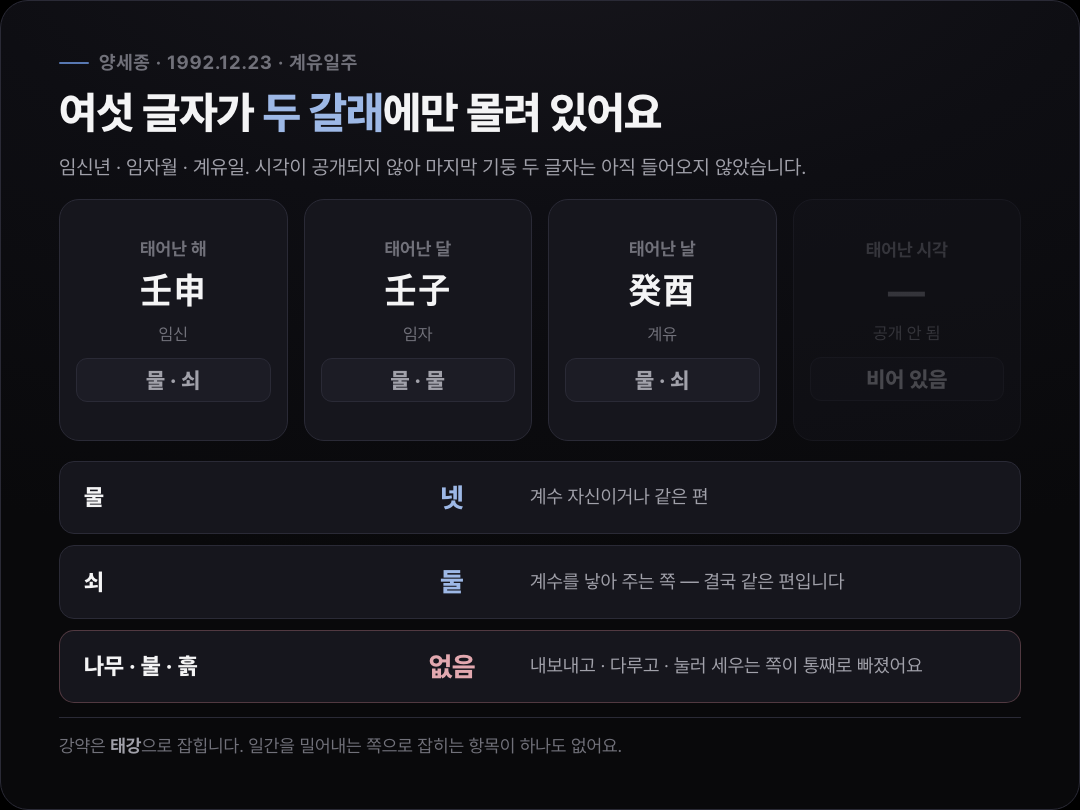
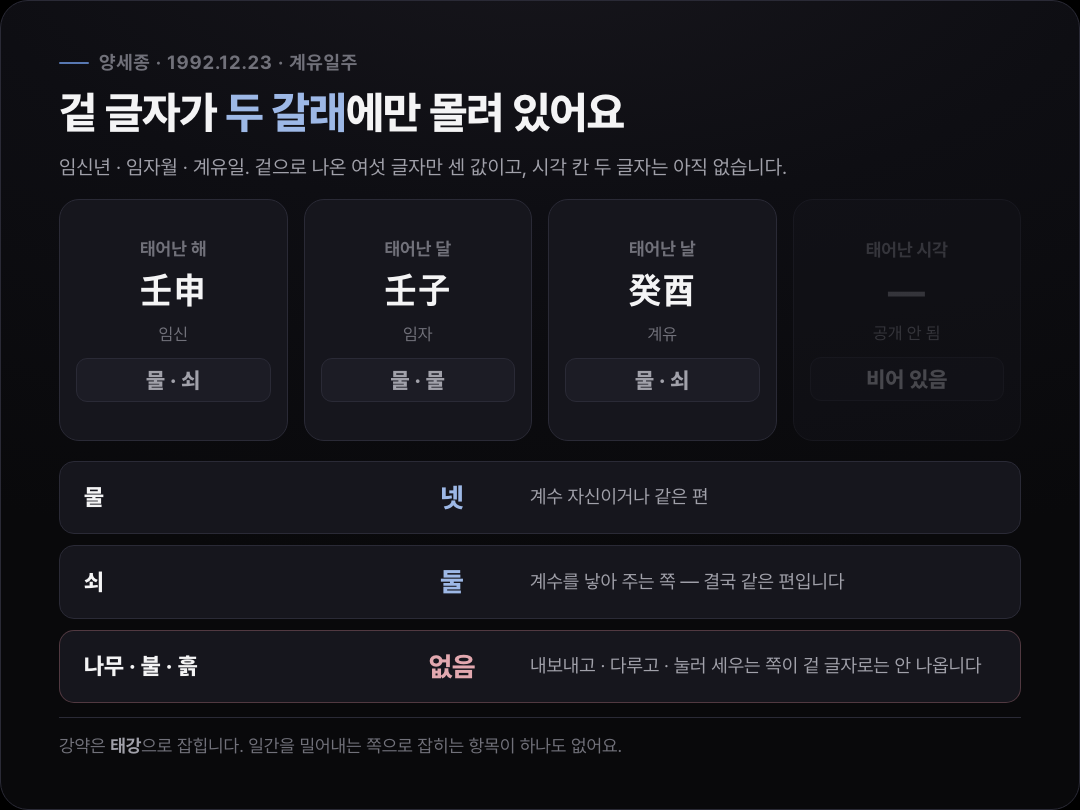
fix(stories): 2차 재검 반영 + 슬롯 클론 검사기 신설
재검 critic 5명 판정: RED 3 · AMBER 2. 1차 수정이 새 문제를 만든 게 확인됐다.

## 왜 같은 사고가 3라운드 연속 났는가 — 도구를 먼저 만들었다

`scripts/slot-clone-check.mts` 신설. `verify-story` 의 M-SIB-01 은 4-gram 비율이라
**고유명사만 갈아 끼운 슬롯 치환형 클론을 구조적으로 못 잡는다.** critic들이 손으로
찾아낸 게 전부 그 형태였고 기계는 전부 통과시켰다 —
  yangsejong↔parkeunbin 38자 · yangsejong↔v-bts 20자 · yuyoungwoo↔v-bts 24자 ·
  yukhae-sal↔jangseong-sal 13자.
193편 전수와의 **최장 연속 일치**를 재고, MIN-그램 역색인으로 6분+ → 1.4초.
필드 관례(source·iljuLabel·heroImage.alt)는 제외해 신호를 깨끗하게 했다.

★이 도구가 즉시 값을 했다. 수정하는 도중에 **같은 패스에서 두 파일에 같은 문구를
쓰는 것을 두 번 잡았다**("삼합 묶음으로 돌려 자리를 정하고", "고르게 놓고 센 값이라").
지금까지 3라운드 연속 못 보고 넘어가던 바로 그 실수다.

결과: 5편 전부 **14자 이상 공유 런 0건**(직전 16·11·10·7·3건).

## [상] 수정

- **장성살 dual-field 를 조건부로 교정.** 1차 critic 권고를 조건 없이 옮겼던 것이
  RED 사유였다. 실측: `saju-enrichment.ts:1333` 이 일반 신살 삼합 산출에서 **년지를
  탐색에서 제외**한다(`filter((_, i) => i !== 0)`). 그래서 장성살 자리 글자가 년지에만
  있으면 신살 쪽엔 안 뜬다 — 12신살 장성살 보유자의 52.8%가 한 번만 보인다.
  게다가 이 글의 인트로 주인공(년주 단독 장성살)이 바로 그 반례였다.
  → 섹션을 "한 번만 뜨는 사람이 절반이 넘어요"로 다시 쓰고 조건을 명시했다.
- **양세종 fig1 카드 한정어 누락.** 본문 caption 은 "표면에서 빠졌다"인데 카드만
  "통째로 빠졌어요"로 무한정이었다. title·intro 도 "반대편이 비어 있어요"라
  1차 [상]의 주장이 SERP 노출층에만 남아 있었다 → 전부 한정.
- **양세종 지장간 과장.** "이미 뿌리 칸 안쪽에 자리를 잡고 있는"이라 썼는데 戊는
  申 지장간 여기(가중치 2/10)이고 `elementDist.토`는 0이다 → "아주 얕게 있다"로.
  근거 없던 "자기 제동" 판독 규칙도 삭제.

## [중] 수정

- **육해살 최대 누락 — 부재율.** 전수 계산상 **0칸이 77%**(시 미상 84%). 장성살 글은
  같은 프레임 오류로 RED 를 받고 척추를 갈았는데 육해살엔 안 옮겼었다. 본문·FAQ·
  excerpt·title 에 반영("넷 중 셋은 아예 없습니다").
[…]

Changed region(s): [[0.0306, 0.0926, 0.7333, 0.216], [0.7333, 0.8025, 0.9167, 0.8333]]

diff --git a/lib/stories/data/yangsejong.ts b/lib/stories/data/yangsejong.ts
@@ -3,11 +3,11 @@ import type { Story } from "../types";
 export const yangSejong: Story = {
   slug: "yangsejong",
   category: "celebrity",
-  title: "양세종 계유일주, 반대편이 비어 있어요",
+  title: "양세종 계유일주, 겉에 안 나온 한 글자",
   excerpt:
     "1992년 12월 23일 계유(癸酉)일주. 여섯 글자 중 넷이 물이고 둘이 쇠인데, 쇠는 물을 낳는 자리예요. 일간을 눌러 세우는 쪽이 표면에 한 자리도 없는 원국입니다.",
   intro:
-    "진중하고 묵직한 배역으로 오래 알려진 배우가 갑자기 웃기는 얼굴을 보여 주면, 사람들은 그걸 변신이라고 부릅니다. 양세종은 2026년 방영된 tvN 《오싹한 연애》에서 검사 역을 맡아 그런 반응을 받았어요.\n\n그런데 원국을 열어 보면 이 사람의 기본값이 무거운 쪽인지부터가 다시 물어볼 만해집니다.\n\n1992년 12월 23일 양력생이고 일주는 **계유(癸酉)**입니다. 위 칸에 [계수](/dict/cheongan/gye), 아래 칸에 [유금](/dict/jiji/yu)이 서요. 시각이 공개된 적이 없어 마지막 기둥 두 글자는 이 글에 못 들어옵니다.\n\n여섯 글자를 늘어놓고 보면 한 가지가 바로 걸려요. **반대편이 통째로 비어 있습니다.**",
+    "진중하고 묵직한 배역으로 오래 알려진 배우가 갑자기 웃기는 얼굴을 보여 주면, 사람들은 그걸 변신이라고 부릅니다. 양세종은 2026년 방영된 tvN 《오싹한 연애》에서 검사 역을 맡아 그런 반응을 받았어요.\n\n그런데 원국을 열어 보면 이 사람의 기본값이 무거운 쪽인지부터가 다시 물어볼 만해집니다.\n\n생일은 1992년 12월 23일 양력이고, 태어난 날의 두 글자가 [계수](/dict/cheongan/gye)와 [유금](/dict/jiji/yu) — 그래서 일주가 **계유(癸酉)**입니다. 태어난 시각 쪽은 기록이 없어 이 글이 다루는 글자는 여섯 개예요.\n\n여섯 글자를 늘어놓으면 한쪽으로 쏠린 게 바로 보여요. 그런데 비어 보이는 쪽을 파 보면 얘기가 달라집니다.",
   sections: [
     {
       heading: "여섯 중 여섯이 같은 편입니다",
@@ -47,7 +47,7 @@ export const yangSejong: Story = {
       blocks: [
         {
           kind: "p",
-          text: "[계유일주](/dict/gabja/gyeyu)를 명리는 **맑은 샘물이 보석 위로 흐르는 형상**으로 옮깁니다. 계수는 이슬·샘물처럼 부드러운 음의 물이고, 유금은 잘 다듬어진 음의 쇠예요.",
+          text: "위 칸 계수는 이슬이나 샘물에 대는 음의 물, 아래 칸 유금은 잘 벼려 놓은 음의 쇠입니다. 사전은 [계유](/dict/gabja/gyeyu)라는 조합을 맑은 샘물이 보석 위로 흐르는 그림에 빗대요.",
         },
         {
           kind: "p",
@@ -60,7 +60,7 @@ export const yangSejong: Story = {
         {
           kind: "callout",
           tone: "tip",
-          text: "한 배역을 오래 파고들어야 하는 일과 어긋나지 않는 구조예요. 다만 원국이 사람을 설명하는 게 아니라, 지나온 이력 옆에 여섯 글자를 나란히 놓아 본 것입니다.",
+          text: "인물 하나를 길게 붙들고 가는 직업과 어긋나지 않는 구조예요. 물론 글자가 사람을 설명하는 게 아니라, 지나온 이력 옆에 여섯 글자를 놓아 본 것뿐입니다.",
         },
       ],
     },
@@ -73,7 +73,7 @@ export const yangSejong: Story = {
         },
         {
           kind: "p",
-          text: "[도화살](/dict/sinsal/dohwa)이 태어난 날 칸에, [홍염살](/dict/sinsal/hongryeom)이 태어난 해 칸에 걸립니다. 둘 다 끌림과 매력을 보는 별인데, 뽑는 기준이 서로 달라요. 도화는 태어난 해의 지지에서 삼합으로 뽑고, 홍염은 일간에서 뽑습니다.",
+          text: "[도화살](/dict/sinsal/dohwa)과 [홍염살](/dict/sinsal/hongryeom) 둘 다 걸려요. 끌림을 보는 별이 두 개인 셈인데, 출발점이 서로 다릅니다. 도화는 띠에서 시작하고 홍염은 일간에서 시작해요. 출발점이 다르니 도착하는 칸도 갈립니다 — 도화가 태어난 날, 홍염이 태어난 해입니다.",
         },
         {
           kind: "p",
@@ -86,7 +86,7 @@ export const yangSejong: Story = {
         },
         {
           kind: "p",
-          text: "남은 한 칸, 태어난 달 쪽은 [장성살](/dict/sipisinsal/jangseongsal)입니다. 통솔과 중심의 별이에요. 일반 신살 기준으로 보면 세 칸이 끌림·끌림·통솔로 갈린 셈입니다.\n\n이 장성살은 두 목록 **양쪽에 같은 이름 그대로** 뜹니다. 뽑는 기준이 둘 다 태어난 해의 지지라 결과가 겹치거든요. 이름까지 같아서 개수로 세기가 제일 쉬운 자리인데, 역시 한 별입니다. 12신살 쪽 태어난 해 칸에는 또 다른 이름인 [지살](/dict/sipisinsal/jisal)이 붙고요.",
+          text: "남은 한 칸, 태어난 달 쪽은 [장성살](/dict/sipisinsal/jangseongsal)입니다. 사전이 권력·통솔력·책임감으로 적는 별이에요. 아래 칸 셋만 놓고 보면 끌림·끌림·통솔로 갈립니다. 위 칸 쪽에 걸리는 별은 따로 있고, 그건 뒤에서 볼게요.\n\n이 장성살은 두 목록 **양쪽에 같은 이름 그대로** 뜹니다. 뽑는 기준이 둘 다 태어난 해의 지지라 결과가 겹치거든요. 이름까지 같아서 개수로 세기가 제일 쉬운 자리인데, 역시 한 별입니다. 12신살 쪽 태어난 해 칸에는 또 다른 이름인 [지살](/dict/sipisinsal/jisal)이 붙고요.",
         },
         {
           kind: "image",
@@ -109,11 +109,11 @@ export const yangSejong: Story = {
         },
         {
           kind: "p",
-          text: "그러니 **없는 게 아니라 안 보이는 자리에 있는** 구조예요. 두루미사주가 이 원국에 보태면 좋을 오행으로 억부 쪽에서 흙을, 겨울생이라 조후 쪽에서 불을 지목하는데, 그중 흙은 이미 뿌리 칸 안쪽에 자리를 잡고 있는 셈입니다.\n\n겉으로는 제동이 없어 보이는데 속에는 있는 배치. 밖에서 눌러 주기를 기다리기보다 스스로 걸어 온 쪽에 가깝고, 한 인물을 오래 붙들고 가는 일에서는 그 자기 제동이 곧 기술이 됩니다.",
+          text: "그러니 **아예 없는 게 아니라 겉에 안 나온** 구조예요. 다만 무토는 신(申) 속에서도 가장 옅게 든 글자라, 오행 개수를 셀 때는 흙 0으로 잡힙니다. 두루미사주가 보태면 좋을 오행으로 억부 쪽에서 흙을, 겨울생이라 조후 쪽에서 불을 지목하는 것도 그래서예요.\n\n속에 있다는 것과 쓰이고 있다는 건 다른 얘기입니다. 이 원국에서 눌러 세우는 자리는 있긴 한데 아주 얕게 있어요.",
         },
         {
           kind: "p",
-          text: "물론 마지막 기둥 두 글자가 아직 빠져 있습니다. 거기에 나무나 불이나 흙이 겉 글자로 들어오면 이 그림은 통째로 다시 그려져요.",
+          text: "덧붙이면 태어난 시각 쪽 두 글자가 아직 안 들어왔어요. 거기서 나무나 불이나 흙이 겉으로 나오면 이 그림은 통째로 다시 그려집니다.",
         },
       ],
     },
@@ -126,7 +126,7 @@ export const yangSejong: Story = {
         },
         {
           kind: "p",
-          text: "그리고 그 자리에 [월덕귀인](/dict/sinsal/woldeok-gwiin)이 잡힙니다. 사전은 이 별을 복록과 안정, 부드러운 인덕의 길성으로 적고, 지지가 아니라 **천간에 나와 있어야 작용이 또렷하다**는 단서를 함께 답니다. 양세종은 그 조건에 해당하는 자리에 들어 있어요.",
+          text: "그리고 그 두 칸에 [월덕귀인](/dict/sinsal/woldeok-gwiin)이 걸립니다. 이 별은 애초에 **천간에서 찾는 별**이에요 — 사전이 지지에서는 성립하지 않는다고 분명히 적어 둡니다. 그리고 천간 중에서도 자리에 따라 세기가 갈린다고 봐요 — 사전이 가장 세다고 꼽는 칸이 태어난 달의 위 칸입니다. 양세종은 년과 달 두 위 칸이 다 임(壬)이라 그 칸을 포함해서 걸려요.",
         },
         {
           kind: "checklist",
@@ -153,15 +153,15 @@ export const yangSejong: Story = {
           items: [
             {
               q: "양세종은 무슨 일주인가요?",
-              a: "계유(癸酉)일주입니다. 1992년 12월 23일 양력생이고 임신년 임자월 계유일로 서요. 시각 쪽 기록이 없어 기둥 하나가 통째로 비어 있어요. 계유는 육십갑자 열 번째 자리이고, 명리는 이 조합을 맑은 샘물이 정련된 보석 위로 흐르는 형상으로 적습니다.",
+              a: "계유(癸酉)일주입니다. 임신년 임자월 계유일 — 1992년 12월 23일 양력생이에요. 태어난 시각은 알려진 게 없어 기둥 하나가 통째로 빕니다. 육십갑자로는 열 번째 코드이고, 맑은 샘물이 벼려 놓은 쇠 위를 흐르는 그림에 빗대는 조합입니다.",
             },
             {
               q: "태강이면 좋은 건가요?",
-              a: "좋고 나쁨을 매기는 등급이 아닙니다. 일간을 돕는 쪽이 아주 두텁게 서 있는 상태를 가리키는 판정이에요. 두터운 만큼 밀고 나가는 힘이 크고, 대신 제동을 걸어 주는 자리가 밖에서 들어오지 않으면 방향을 스스로 잡아야 합니다. 덧붙이면 태어난 시각이 없으면 네 항목 중 하나는 애초에 판정이 걸리지 않아, 이 값도 확정으로 읽지 않으시는 편이 정확해요.",
+              a: "좋고 나쁨을 매기는 등급이 아닙니다. 일간을 돕는 쪽이 아주 두텁게 서 있는 상태를 가리키는 판정이에요. 두터운 만큼 밀고 나가는 힘이 크고, 대신 제동을 걸어 주는 자리가 밖에서 들어오지 않으면 방향을 스스로 잡아야 합니다. 덧붙이면 태어난 시각이 없으면 네 항목 중 하나는 애초에 판정이 걸리지 않아, 이 판정도 확정으로 받지 않으시는 게 맞습니다.",
             },
             {
               q: "도화살과 년살이 둘 다 있다는 건가요?",
-              a: "하나입니다. 사전은 12신살의 년살이 일반 신살의 도화살과 같은 별이라고 적어요. 둘 다 태어난 해의 지지에서 삼합으로 뽑기 때문에 자리도 같습니다. 다만 두루미사주는 산출 기준이 다른 두 체계를 나눠서 보여 주기 때문에 목록 두 곳에 각각 이름이 뜨는 것이고, 이걸 개수로 합산하면 실제보다 부풀려집니다.",
+              a: "하나입니다. 사전은 12신살의 년살과 일반 신살의 도화살을 같은 별로 적어요. 두 목록 모두 띠를 출발점으로 삼으니 도착하는 칸이 같아집니다. 두루미사주가 두 체계를 나눠 보여 주다 보니 목록 두 곳에 각각 뜨는 것뿐이에요. 두 줄을 더해서 세면 실제보다 많아 보입니다.",
             },
             {
               q: "나무·불·흙이 없으면 그 기운이 없는 사람인가요?",

diff --git a/lib/stories/data/yuyoungwoo.ts b/lib/stories/data/yuyoungwoo.ts
@@ -3,11 +3,11 @@ import type { Story } from "../types";
 export const yuYoungwoo: Story = {
   slug: "yuyoungwoo",
   category: "celebrity",
-  title: "유영우 기묘일주, 가장 센 칸에 험한 이름이",
+  title: "유영우 기묘일주, 통솔의 별과 빠진 쇠",
   excerpt:
-    "1995년 6월 17일 기묘(己卯)일주. 태어난 달 칸은 이 원국에서 힘이 가장 강한 자리인데, 거기 붙은 12신살 이름은 육해살이에요. 이름과 세기가 따로 노는 칸이 어떻게 읽히는지 짚어 봅니다.",
+    "1995년 6월 17일 기묘(己卯)일주. 본인 자리에 판을 지휘하는 별이 앉아 있는데, 정작 만들어 낸 것을 거두어 굳히는 오행은 겉에 한 자리도 없어요. 그 둘을 같이 놓고 읽어 봅니다.",
   intro:
-    "만담은 혼자 웃기는 일이 아닙니다. 둘이 주고받는 박자를 미리 다 짜 놓고, 무대 위에서는 그 판을 놓치지 않게 끌고 가야 하는 일이에요. 유영우는 메타코미디 소속 개그맨이고, 만담 콤비 유스데스크로 무대와 온라인 양쪽에서 활동하고 있습니다.\n\n판을 짜고 그 판을 지휘하는 일. 원국으로 옮겨 보면 이 대목이 꽤 또렷하게 나옵니다.\n\n1995년 6월 17일 양력생이고 일주가 **기묘(己卯)**예요. 위 칸에 [기토](/dict/cheongan/gi), 아래 칸에 [묘목](/dict/jiji/myo)이 섭니다. 시각이 공개된 적이 없어 마지막 기둥은 비어 있고, 이 글도 거기까지는 못 갑니다.\n\n짚어 볼 자리는 **태어난 달 칸**입니다. 이 원국에서 힘이 가장 강하게 잡히는 칸인데, 거기 붙은 12신살 이름이 하필 육해살이거든요.",
+    "만담은 혼자 웃기는 일이 아닙니다. 둘이 주고받는 박자를 미리 다 짜 놓고, 무대 위에서는 그 판을 놓치지 않게 끌고 가야 하는 일이에요. 유영우는 메타코미디 소속 개그맨이고, 만담 콤비 유스데스크로 무대와 온라인 양쪽에서 활동하고 있습니다.\n\n판을 짜고 그 판을 지휘하는 일. 원국으로 옮겨 보면 이 대목이 꽤 또렷하게 나옵니다.\n\n1995년 6월 17일 양력생이고 일주가 **기묘(己卯)**예요. 위 칸에 [기토](/dict/cheongan/gi), 아래 칸에 [묘목](/dict/jiji/myo)이 섭니다. 태어난 시각은 알려진 적이 없어요. 그래서 이 글이 다루는 기둥은 셋입니다.\n\n짚어 볼 자리는 **태어난 달 칸**입니다. 이 원국에서 힘이 가장 강하게 잡히는 칸인데, 거기 붙은 12신살 이름이 하필 육해살이거든요.",
   sections: [
     {
       heading: "본인 자리에 통솔의 별이 앉아 있어요",
@@ -27,7 +27,7 @@ export const yuYoungwoo: Story = {
         {
           kind: "callout",
           tone: "tip",
-          text: "덧붙이면 이 자리는 산출 방식이 다른 두 목록에서 **동시에** 잡힙니다. 12신살 쪽에서도 장성살, 산출 기준이 각자 다른 일반 신살 쪽에서도 장성살이에요. 일반 신살은 별마다 잣대가 다른데 장성살은 그쪽에서도 태어난 해의 지지에서 출발해서, 결국 두 목록이 같은 칸을 가리킵니다. 별이 두 개인 게 아니라 같은 별이 두 번 호명된 것입니다.",
+          text: "덧붙이면 결과 화면에서 이 칸에 장성살이 두 번 보일 수 있어요. 두루미사주가 신살을 두 목록으로 나눠 주는데, 이 자리가 양쪽 조건에 다 걸리기 때문입니다. 한 별이 두 줄에 적혀 있을 뿐이에요.",
         },
         {
           kind: "image",
@@ -38,7 +38,7 @@ export const yuYoungwoo: Story = {
       ],
     },
     {
-      heading: "기묘 — 텃밭 위에 새벽 토끼풀이 자란 자리",
+      heading: "기토와 묘목 — 흙 위를 파고드는 나무",
       blocks: [
         {
           kind: "p",
@@ -54,16 +54,16 @@ export const yuYoungwoo: Story = {
         },
         {
           kind: "p",
-          text: "아래 칸 속에 든 글자가 을목 하나뿐이라는 점도 이 일주의 특징이에요. 지지는 보통 두세 글자가 겹쳐 드는데 여기는 단일입니다. 사전은 그래서 이 자리의 신호가 아주 또렷하다고 적고, 힘이 한 갈래로 모일 때와 흩어질 때의 차이가 크다는 단서를 답니다.",
+          text: "사전은 이 일주의 아래 칸 속이 을목 하나로만 채워져 있다고 적어요. 그래서 이 자리가 내는 신호가 아주 또렷하다고 보고, 힘이 한 갈래로 모일 때와 흩어질 때의 차이가 크다는 단서를 답니다.",
         },
       ],
     },
     {
-      heading: "가장 센 칸에 가장 험한 이름이 붙어 있습니다",
+      heading: "달 칸은 잣대에 따라 답이 갈려요",
       blocks: [
         {
           kind: "p",
-          text: "여기가 이 원국에서 제일 재미있는 대목이에요.",
+          text: "옆 칸으로 눈을 옮겨 보겠습니다.",
         },
         {
           kind: "p",
@@ -109,15 +109,15 @@ export const yuYoungwoo: Story = {
         },
         {
           kind: "p",
-          text: "여섯 글자를 다섯 갈래로 갈라 보면 나무 둘, 물 둘, 불 하나, 흙 하나입니다. 그리고 **쇠가 한 자리도 나오지 않아요.**",
+          text: "여섯 글자의 오행을 세면 나무 둘, 물 둘, 불 하나, 흙 하나예요. 다섯 갈래 중 넷만 채워졌고 **쇠 자리가 통째로 비었습니다.**",
         },
         {
           kind: "p",
-          text: "기토에게 나무는 자기를 눌러 오는 쪽이고 물은 자기가 다뤄야 할 쪽이에요. 그 둘이 넷을 차지합니다. 반대로 같은 편은 불 하나와 흙 하나뿐인데, 그 흙 하나가 바로 일간 자신이에요. 밀어내는 손이 훨씬 많은 구성입니다.",
+          text: "기토에게 나무는 눌러 오는 쪽, 물은 다뤄야 할 쪽입니다. 여섯 중 넷이 그쪽이에요. 남은 둘 중 하나는 기토를 낳아 주는 불이고, 나머지 하나는 기토 자신입니다. 그러니 헤딩의 둘 가운데 하나는 본인이 스스로 세는 몫이에요.",
         },
         {
           kind: "p",
-          text: "빠져 있는 쇠는 기토가 밖으로 내보내는 자리예요. 흙이 길러 낸 것을 거두어 형태로 굳히는 쪽이 겉에 나와 있지 않다는 얘기입니다. 물론 마지막 기둥 두 글자가 아직이라 이 개수도 확정은 아니고요.",
+          text: "빠져 있는 쇠는 기토가 밖으로 내보내는 자리예요. 흙이 길러 낸 것을 거두어 형태로 굳히는 쪽이 겉에 나와 있지 않다는 얘기입니다. 시각 칸이 채워지면 이 개수는 물론 달라질 수 있어요.",
         },
         {
           kind: "callout",
@@ -170,14 +170,14 @@ export const yuYoungwoo: Story = {
             },
             {
               q: "육해살이 있으면 안 좋은 사주인가요?",
-              a: "그런 뜻이 아닙니다. 12신살은 태어난 해의 지지를 기준으로 네 칸에 이름을 하나씩 배정하는 체계예요. 그러니 어느 칸에든 이름은 붙습니다 — 그 이름이 육해살로 나오는 사람도 있고 아예 안 나오는 사람도 있어요. 유영우의 경우 그 이름이 붙은 칸이 오히려 12운성으로는 힘이 강한 자리이고 강약 판정에서 확보된 유일한 자리이기도 합니다. 이름과 세기를 같은 잣대로 보면 방향이 어긋나요.",
+              a: "그런 뜻이 아닙니다. 12신살은 띠를 기준점으로 삼아 네 칸에 이름을 하나씩 나눠 주는 체계예요. 그러니 어느 칸에든 이름은 붙습니다 — 그 이름이 육해살로 나오는 사람도 있고 아예 안 나오는 사람도 있어요. 유영우의 경우 그 이름이 붙은 칸이 오히려 12운성으로는 힘이 강한 자리이고 강약 판정에서 확보된 유일한 자리이기도 합니다. 이름과 세기를 같은 잣대로 보면 방향이 어긋나요.",
             },
             {
               q: "천덕귀인이 태어난 해 칸에 붙었다는 게 무슨 뜻인가요?",
               a: "이 별은 태어난 달의 지지를 기준점으로 삼아 자리를 정합니다. 유영우는 오(午)월생이고, 오월에 성립하는 천덕 자리가 해(亥)예요. 그런데 태어난 해의 아래 글자가 마침 해(亥)라서 그 칸이 천덕 자리가 됩니다. 이름은 귀인인데 붙는 자리가 천간이 아니라 지지인 경우예요. 같은 덕(德) 자를 쓰는 월덕귀인은 천간에 나와야 작용이 또렷하다고 사전이 따로 단서를 답니다."
             },
             {
-              q: "쇠가 하나도 없으면 그 기운이 아예 없는 건가요?",
+              q: "쇠가 겉에 없다는 게 어떤 뜻인가요?",
               a: "겉으로 나온 여섯 글자 안에 없다는 얘기예요. 더구나 마지막 기둥 두 글자가 아직 안 들어온 상태입니다. 시각이 나오면 오행 개수도 12신살 이름 목록도 새로 계산돼요. 여기 적은 개수는 시각 칸을 뺀 채로 센 값입니다.",
             },
           ],

diff --git a/lib/stories/data/jangseong-sal.ts b/lib/stories/data/jangseong-sal.ts
@@ -18,7 +18,7 @@ export const jangseongSal: Story = {
         },
         {
           kind: "p",
-          text: "[12신살](/dict/sipisinsal/intro)은 순서가 반대입니다. 사전은 이 체계를 두고 **어느 사주든 열두 지지 전체에 별이 부여되는 한 묶음**이라고 적어요. 태어난 해의 지지가 어느 [삼합](/dict/relation/inosul-samhap) 묶음에 드는지만 정해지면, 열두 글자 전부에 이름이 하나씩 배정됩니다. 장성살이 어느 글자에 붙을지도 그때 이미 확정돼요.",
+          text: "[12신살](/dict/sipisinsal/intro)은 순서가 반대입니다. 사전은 이 체계를 두고 **어느 사주든 열두 지지 전체에 별이 부여되는 한 묶음**이라고 적어요. 내 띠가 어느 [삼합](/dict/relation/inosul-samhap) 묶음에 드는지만 정해지면, 열두 글자 전부에 이름이 하나씩 배정됩니다. 장성살이 어느 글자에 붙을지도 그때 이미 확정돼요.",
         },
         {
           kind: "callout",
@@ -135,20 +135,20 @@ export const jangseongSal: Story = {
       ],
     },
     {
-      heading: "결과 화면에 같은 이름이 두 번 뜰 수 있어요",
+      heading: "결과 화면에 한 번만 뜨는 사람이 절반이 넘어요",
       blocks: [
         {
           kind: "p",
-          text: "짚어 둘 게 하나 있습니다. 두루미사주는 신살을 두 목록으로 나눠서 보여 줘요. 태어난 해의 지지로 뽑는 12신살이 한 쪽, 산출 기준이 각자 다른 일반 신살이 다른 쪽입니다.",
+          text: "짚어 둘 게 하나 더 있어요. 두루미사주는 신살을 두 목록으로 나눠 보여 줍니다. 띠로 뽑는 12신살이 한 쪽, 별마다 잣대가 다른 일반 신살이 다른 쪽이에요.",
         },
         {
           kind: "p",
-          text: "그런데 장성살은 **두 목록 양쪽에 같은 이름 그대로** 올라옵니다. 일반 신살 쪽 장성살도 태어난 해의 지지에서 삼합으로 뽑기 때문에, 결과가 같은 칸을 가리키거든요.",
+          text: "장성살은 두 목록 양쪽에 다 있는 이름이에요. 그래서 조건이 맞으면 결과 화면에서 두 번 보입니다.\n\n**그런데 그 조건이 좀 까다롭습니다.** 일반 신살 쪽 계산은 태어난 해 칸을 탐색에서 빼거든요. 그래서 장성살 자리 글자가 **달·날·시각 중 어딘가에 있어야** 그쪽에도 이름이 올라옵니다.",
         },
         {
           kind: "callout",
           tone: "warn",
-          text: "이름이 두 번 보인다고 별이 둘인 건 아닙니다. 같은 별이 두 번 호명된 거예요. 개수로 합산하면 실제보다 부풀려집니다.",
+          text: "그래서 앞에 나온 말띠 사례처럼 **태어난 해 칸 하나만 장성살인 사람은 한 번만 보입니다.** 원국표 안에는 뜨는데 신살 쪽에는 안 보여요. 빠뜨린 게 아니라 계산이 그렇게 짜여 있는 겁니다.\n\n반대로 두 번 보이는 사람도 개수는 하나예요. 두 줄을 더해서 세면 많아 보입니다.",
         },
       ],
     },
@@ -161,11 +161,11 @@ export const jangseongSal: Story = {
         },
         {
           kind: "p",
-          text: "여기서 범위를 정확히 잡아 둘 필요가 있어요. **길한 쪽이라는 분류는 12신살 체계 안에서의 자리매김**입니다. 산출 기준이 각자 다른 일반 신살 쪽에서 귀인으로 묶는 별들과는 애초에 다른 목록이에요. 같은 '길하다'는 말을 써도 두 체계가 재는 잣대가 같지 않습니다.",
+          text: "여기서 범위를 정확히 잡아 둘 필요가 있어요. **길한 쪽이라는 분류는 12신살 체계 안에서의 자리매김**입니다. 별마다 잣대가 다른 일반 신살 쪽에서 귀인으로 묶는 별들과는 애초에 다른 목록이에요. 같은 '길하다'는 말을 써도 두 체계가 재는 잣대가 같지 않습니다.",
         },
         {
           kind: "p",
-          text: "그리고 사전 자신도 무조건으로 적지는 않아요. 장성살이 너무 강하면 독선으로 흐를 수 있으니 협업과 경청의 균형이 필요하다고 단서를 답니다. 세다는 것과 좋다는 것이 같은 말이 아니라는 뜻이에요.",
+          text: "그리고 사전 자신도 무조건으로 적지는 않아요. 이 별이 지나치게 세지면 혼자 밀어붙이는 쪽으로 기울 수 있다고 보고, 그래서 함께 하고 귀 기울이는 균형을 단서로 답니다. 세다는 것과 좋다는 것이 같은 말이 아니라는 뜻이에요.",
         },
         {
           kind: "callout",
@@ -207,19 +207,19 @@ export const jangseongSal: Story = {
           items: [
             {
               q: "장성살이 있는지 없는지 어떻게 아나요?",
-              a: "먼저 자리를 찾고, 그 글자가 왔는지를 봅니다. 12신살은 태어난 해의 지지가 속한 삼합 묶음에 따라 열두 지지 전체에 이름을 배정하는데, 사주에 실제로 드러나는 건 그중 네 칸이에요. 장성살 자리 글자가 그 넷 안에 없으면 장성살은 없는 겁니다. 다만 태어난 해의 지지가 자·오·묘·유인 쥐·토끼·말·닭띠는 년지 자체가 그 자리라 자동으로 하나를 갖습니다.",
+              a: "먼저 자리를 찾고, 그 글자가 왔는지를 봅니다. 12신살은 띠가 속한 삼합 묶음에 따라 열두 지지 전체에 이름을 배정하는데, 사주에 실제로 드러나는 건 그중 네 칸이에요. 장성살 자리 글자가 그 넷 안에 없으면 장성살은 없는 겁니다. 다만 태어난 해의 지지가 자·오·묘·유인 쥐·토끼·말·닭띠는 년지 자체가 그 자리라 자동으로 하나를 갖습니다.",
             },
             {
               q: "장성살이 있으면 리더가 되나요?",
-              a: "사전은 리더십의 자질을 강하게 부여하는 별로 적지만, 사주 전체의 균형과 본인의 노력이 함께 따라야 실제로 발현된다고 단서를 답니다. 게다가 태어난 해 칸의 장성살은 띠로 정해지는 자리라 셋 중 한 명꼴이에요. 그 칸 하나만 놓고 직업이나 지위를 읽으면 근거가 너무 얇아요.",
+              a: "사전은 리더의 자질을 크게 실어 주는 별로 적습니다. 다만 원국 전체의 균형과 본인 노력이 받쳐 줘야 그 자질이 밖으로 나온다는 단서를 함께 달아요. 게다가 태어난 해 칸의 장성살은 띠로 정해지는 자리라 셋 중 한 명꼴이에요. 그 칸 하나만 놓고 직업이나 지위를 읽으면 근거가 너무 얇아요.",
             },
             {
               q: "'살'이 붙었는데 왜 길한 쪽인가요?",
-              a: "신살의 '살'은 흉을 뜻하기도 하지만 강한 기운이라는 뜻도 함께 가진다고 사전은 적습니다. 다만 길한 쪽이라는 분류는 12신살 체계 안에서의 자리매김이에요. 산출 기준이 각자 다른 일반 신살 목록에서 귀인으로 묶는 별들과는 애초에 다른 갈래라, 같은 표현을 써도 재는 잣대가 같지 않습니다.",
+              a: "신살의 '살'은 흉을 뜻하기도 하지만 강한 기운이라는 뜻도 함께 가진다고 사전은 적습니다. 다만 길한 쪽이라는 분류는 12신살 체계 안에서의 자리매김이에요. 잣대가 제각각인 일반 신살 목록에서 귀인으로 묶는 별들과는 애초에 다른 갈래라, 같은 표현을 써도 재는 기준이 같지 않습니다.",
             },
             {
-              q: "결과 화면에 장성살이 두 번 뜨는데 두 개인가요?",
-              a: "하나입니다. 두루미사주는 산출 기준이 다른 두 목록을 나눠서 보여 주는데, 장성살은 12신살 쪽에서도 일반 신살 쪽에서도 태어난 해의 지지에서 뽑기 때문에 같은 칸이 양쪽에 걸려요. 별이 늘어난 게 아니라 같은 별이 두 번 호명된 것이라, 개수로 합산하면 부풀려집니다.",
+              q: "결과 화면에 장성살이 한 번만 뜨는데 맞나요?",
+              a: "맞을 수 있습니다. 두루미사주는 신살을 두 목록으로 나눠 보여 주는데, 일반 신살 쪽 계산은 태어난 해 칸을 탐색에서 뺍니다. 그래서 장성살 자리 글자가 태어난 해 칸에만 있으면 원국표 안에는 표시되고 신살 쪽에는 안 올라와요. 반대로 달·날·시각 중 어딘가에 있으면 양쪽에 다 뜨는데, 그때도 별은 하나입니다.",
             },
             {
               q: "자·오·묘·유 네 글자에는 장성살만 붙나요?",

diff --git a/lib/stories/data/v-bts.ts b/lib/stories/data/v-bts.ts
@@ -5,7 +5,7 @@ export const vBts: Story = {
   category: "celebrity",
   title: "뷔 을미일주, 한 칸에 이름이 셋 앉으면",
   excerpt:
-    "1995년 12월 30일 을미(乙未)일주. 태어난 달 칸 하나에 매력의 별과 귀인의 별이 함께 앉고, 태어난 날 칸에는 재능의 별과 험한 이름이 겹칩니다. 겹친 칸을 어떻게 읽는지가 이 원국의 관건이에요.",
+    "1995년 12월 30일 을미(乙未)일주. 태어난 달 칸 하나에 매력의 별과 귀인의 별이 함께 앉고, 태어난 날 칸에는 안으로 깊어지는 별과 험한 이름이 겹칩니다. 겹친 칸을 어떻게 읽는지가 이 원국의 관건이에요.",
   intro:
     "사주를 보다 보면 유난히 표시가 몰리는 칸이 나옵니다. 그 칸이 좋은 칸인지 나쁜 칸인지 묻고 싶어지는데, 실제로는 그 질문에 답이 잘 안 나와요.\n\n방탄소년단의 뷔가 딱 그런 원국입니다. 1995년 12월 30일 양력생이고 일주는 **을미(乙未)**예요. 위 칸에 [을목](/dict/cheongan/eul), 아래 칸에 [미토](/dict/jiji/mi)가 섭니다. 시각 쪽은 공개된 적이 없어서, 마지막 기둥은 비워 놓고 읽습니다.\n\n여기서 먼저 갈라 둘 게 있어요. 12신살은 **어느 칸에든 이름을 하나씩 줍니다.** 사전이 이 체계를 두고 어느 사주든 열두 지지 모두에 별이 부여된다고 적는 대로예요. 그러니 몰린다는 건 12신살 쪽 얘기가 아니라, 별마다 조건이 다른 **일반 신살 쪽에서 생기는 일**입니다.\n\n뷔의 원국에서는 그 몰림이 두 칸에 걸려요. 태어난 달 칸과 태어난 날 칸입니다. 한 칸에 이름이 여럿 앉으면 그 칸을 좋다 나쁘다로 접기가 어려워지고, 어느 이름이 어느 기준에서 나온 건지부터 갈라야 합니다.",
   sections: [
@@ -29,12 +29,12 @@ export const vBts: Story = {
         },
         {
           kind: "p",
-          text: "매력을 보는 별과 도움을 받는 별이 한 칸에 겹쳤어요. 두 별의 뽑는 기준은 서로 다릅니다. 도화는 태어난 해의 지지에서 삼합으로 뽑고, [천을귀인](/dict/sinsal/cheonyl-gwiin)은 일간에서 뽑아요. 기준이 다른 두 계산이 우연히 같은 칸을 가리킨 겁니다.",
+          text: "매력을 보는 별과 도움을 받는 별이 한 칸에 겹쳤어요. [천을귀인](/dict/sinsal/cheonyl-gwiin)은 조견표부터 다릅니다. 열 개 일간마다 정해진 지지가 따로 있고, 을목이면 자(子)와 신(申) 두 글자예요. 띠는 아예 안 봅니다. 그러니 두 별이 같은 칸에 앉은 건 서로 맞춘 게 아니라 우연이에요.",
         },
         {
           kind: "callout",
           tone: "warn",
-          text: "이런 칸을 두고 별이 셋이라고 세면 실제보다 부풀려집니다. 결과 화면에서 목록이 나뉘어 보이는 건 산출 기준을 갈라 놓았기 때문이지 별이 늘어난 게 아니에요.",
+          text: "표의 세 줄 중 12신살 한 줄은 어느 칸에나 있는 상수예요. 그러니 이 칸을 특별하게 만든 건 나머지 두 줄, 조건이 맞아야 붙는 쪽입니다. 셋으로 세면 실제보다 부풀려져요.",
         },
         {
           kind: "image",
@@ -67,7 +67,7 @@ export const vBts: Story = {
       ],
     },
     {
-      heading: "날 칸에서는 재능의 별과 험한 이름이 겹칩니다",
+      heading: "날 칸에서는 안으로 깊어지는 별과 험한 이름이 겹칩니다",
       blocks: [
         {
           kind: "p",
@@ -75,7 +75,7 @@ export const vBts: Story = {
         },
         {
           kind: "p",
-          text: "이 칸은 [화개살](/dict/sinsal/hwagae)로 잡힙니다. 그리고 12신살 쪽 목록에서도 같은 이름이 나와요. 두 목록 다 태어난 해의 지지에서 삼합으로 뽑는 별이라 자리가 겹칩니다. 방금 달 칸에서 본 도화와 같은 구조예요.",
+          text: "이 칸은 [화개살](/dict/sinsal/hwagae)로 잡힙니다. 그런데 12신살 목록을 봐도 같은 이름이 또 있어요. 화개는 어느 목록에서든 띠를 출발점으로 삼는 별이라 두 계산이 같은 답에 도착하거든요. 달 칸의 도화가 그랬던 것과 같은 사정입니다.",
         },
         {
           kind: "p",
@@ -83,7 +83,7 @@ export const vBts: Story = {
         },
         {
           kind: "p",
-          text: "그러니 이 원국은 **본인 자리에 재능의 별이, 태어난 달 칸에 매력과 도움의 별이** 앉은 배치입니다. 그리고 그 본인 자리는 백호살이 성립하는 자리이기도 하고요.",
+          text: "12신살 쪽으로 세 칸을 한 줄로 놓으면 [지살](/dict/sipisinsal/jisal)·년살·화개살이 됩니다. 태어난 해 칸에도 이름은 어김없이 붙어 있어요 — 다만 그 칸엔 다른 목록의 별이 겹치지 않아 조용할 뿐입니다.\n\n겹침이 생긴 두 칸을 정리하면 이렇습니다. 태어난 달 칸에 매력과 도움의 별이, 본인 자리에 안으로 깊어지는 별과 백호가 함께 앉았어요.",
         },
         {
           kind: "image",
@@ -102,7 +102,7 @@ export const vBts: Story = {
         },
         {
           kind: "p",
-          text: "을목 입장에서 불은 자기가 밖으로 내보내는 자리이고, 쇠는 자기를 눌러 세우는 자리입니다. 표현하는 쪽과 규범 쪽 둘 다 겉으로는 안 드러난다는 뜻이에요.",
+          text: "을목에게 불은 제 안의 것을 꺼내 쓰는 통로이고, 쇠는 그 을목을 잘라 다듬는 쪽입니다. 꺼내는 힘과 다듬는 힘 둘 다 겉 글자로는 안 보인다는 뜻이에요.",
         },
         {
           kind: "p",
@@ -110,7 +110,7 @@ export const vBts: Story = {
         },
         {
           kind: "p",
-          text: "강약은 [중화신강](/dict/gangyak/junghwa-singang)으로 잡혀요. 시각이 비어 판정이 도는 항목은 셋인데, 그중 태어난 달과 태어난 날 두 곳을 확보한 상태입니다. 한쪽으로 크게 기울지 않은, 가운데에 가까운 자리예요.",
+          text: "강약은 [중화신강](/dict/gangyak/junghwa-singang)입니다. 강약은 네 항목으로 재는데 시각이 없으면 그중 하나는 계산이 아예 안 돌아요. 남은 셋 가운데 달과 날 두 곳을 확보한 상태입니다. 한쪽으로 크게 기울지 않은, 가운데에 가까운 자리예요.",
         },
       ],
     },
@@ -147,7 +147,7 @@ export const vBts: Story = {
           items: [
             {
               q: "뷔는 무슨 일주인가요?",
-              a: "을미(乙未)일주입니다. 1995년 12월 30일 양력생이고 을해년 무자월 을미일로 서요. 시각 쪽 기록이 없어 마지막 기둥 자리가 비어 있어요. 을미는 육십갑자 서른두 번째 자리이고, 명리는 이 조합을 들판에서 풀을 뜯는 양의 형상으로 적습니다. 백호살이 성립하는 일곱 일주 중 하나이기도 해요.",
+              a: "을미(乙未)일주입니다. 태어난 날의 두 글자가 을목과 미토라서요. 을해년 무자월 을미일로 서고, 시각은 공개된 적이 없어 기둥 하나가 빕니다. 육십갑자 서른두 번째 코드이고, 들판에서 풀을 뜯는 양에 빗대는 조합이에요. 백호가 걸리는 일곱 조합에도 들어갑니다.",
             },
             {
               q: "천을귀인이 있으면 뭐가 좋은가요?",

diff --git a/lib/stories/data/yukhae-sal.ts b/lib/stories/data/yukhae-sal.ts
@@ -3,9 +3,9 @@ import type { Story } from "../types";
 export const yukhaeSal: Story = {
   slug: "yukhae-sal",
   category: "saju",
-  title: "육해살은 다른 띠에게는 장성살입니다",
+  title: "육해살, 넷 중 셋은 아예 없습니다",
   excerpt:
-    "여섯 가지 해로움이라는 이름 때문에 놀라시는 분이 많아요. 그런데 내 사주에서 육해살로 잡힌 그 글자는, 다른 한 묶음의 띠에게는 장성살 자리예요. 글자에 길흉이 박혀 있는 게 아니라는 뜻이에요.",
+    "여섯 가지 해로움이라는 이름 때문에 놀라시는 분이 많아요. 그런데 네 칸에 지지를 하나씩 다 대입해 보면 넷 중 셋 꼴로 육해살이 안 잡혀요. 게다가 육해살로 잡힌 그 글자는 어떤 띠에게는 장성살 자리예요.",
   intro:
     "쥐띠인 지인 한 분이 사주를 보고 와서 며칠을 뒤척였다고 합니다. 토끼 글자 자리에 육해살이 걸렸다는 얘기를 들었는데, 그 이름을 검색해 보니 여섯 가지 해로움이라고 나오더래요. 질병이라는 단어도 같이 보였고요.\n\n그분이 저한테 물어본 건 딱 하나였습니다. \"제 사주에 나쁜 글자가 박혀 있는 건가요?\"\n\n답부터 드리면 그 토끼 글자는 나쁜 글자가 아닙니다. 같은 토끼 글자가 **돼지띠·토끼띠·양띠에게는 장성살**이거든요. 통솔과 중심을 상징하는, 12신살 안에서 가장 좋게 보는 그 별이요.\n\n같은 글자가 누구에게는 육해살이고 누구에게는 장성살입니다. [육해살](/dict/sipisinsal/yukhaesal)이라는 이름을 어떻게 읽어야 하는지, 여기서부터 시작하는 게 정확해요.",
   sections: [
@@ -62,7 +62,7 @@ export const yukhaeSal: Story = {
           kind: "image",
           src: "/stories/figures/yukhae-sal-1.png",
           alt: "네 삼합 묶음의 육해살 자리 묘·오·유·자를 가로로 늘어놓고, 각 자리가 다음 묶음에서 장성살로 바뀌며 넘어가는 것을 화살표로 이은 카드",
-          caption: "쥐띠의 육해살 자리인 묘(卯)가 토끼띠에게는 장성살 자리가 되는 식입니다.",
+          caption: "네 묶음이 서로에게 자리를 넘기며 한 바퀴 돕니다. 자기 육해살을 자기 장성살로 쓰는 묶음은 없어요.",
         },
         {
           kind: "p",
@@ -97,7 +97,7 @@ export const yukhaeSal: Story = {
       blocks: [
         {
           kind: "p",
-          text: "12신살은 사주 네 기둥의 아래 칸에 하나씩 배정돼요. 육해살이 그중 어디에 앉았는지에 따라 사전이 읽는 영역이 갈립니다.",
+          text: "먼저 개수부터 보겠습니다. 네 칸에 들어갈 수 있는 지지를 하나씩 다 대입해 세어 봤어요. **육해살이 한 칸도 안 나오는 쪽이 넷 중 셋**입니다. 시각 칸이 비면 그 몫이 더 커지고요. 물론 열두 지지가 사람들에게 똑같은 비율로 오지는 않으니 실제와는 차이가 있겠지만, 없는 쪽이 흔하다는 방향은 바뀌지 않아요.\n\n걸린 경우라면 어느 칸이냐를 봅니다. 12신살은 네 기둥의 아래 칸에 이름을 하나씩 배정하는데, 그 자리에 따라 사전이 읽는 영역이 갈려요.",
         },
         {
           kind: "table",
@@ -117,13 +117,13 @@ export const yukhaeSal: Story = {
         {
           kind: "image",
           src: "/stories/figures/yukhae-sal-2.png",
-          alt: "육해살이 태어난 달 칸과 날 칸에 앉았을 때 각각 직업·동료 관계와 본인의 건강·체력으로 영역이 갈리는 것을 보여 주고, 태어난 해 칸에는 오지 않는다는 것을 표시한 카드",
-          caption: "태어난 해 칸에는 이 이름이 아예 오지 않고, 시각을 모르면 네 번째 칸은 판정이 안 걸립니다.",
+          alt: "태어난 해·달·날·시각 네 칸을 나란히 놓고, 해 칸에는 육해살이 올 수 없음·달 칸은 일터 쪽·날 칸은 본인 몸 쪽·시각 칸은 판정 보류로 각각 표시한 카드",
+          caption: "그래서 육해살을 실제로 만나는 자리는 넓어야 두 칸입니다.",
         },
       ],
     },
     {
-      heading: "육해살이 잡혔을 때 실제로 할 일",
+      heading: "잡혔다면, 겁먹지 않고 쓰는 법",
       blocks: [
         {
           kind: "p",
@@ -162,7 +162,7 @@ export const yukhaeSal: Story = {
             },
             {
               q: "제 사주에 육해살이 몇 개나 있는 건가요?",
-              a: "많아야 세 칸입니다. 12신살은 네 기둥의 아래 칸에 이름을 하나씩 배정하는데, 태어난 해 칸에는 지살·장성살·화개살 셋 중 하나만 오게 돼 있어요. 그래서 육해살이 걸릴 수 있는 자리는 달·날·시각 세 칸뿐이고, 태어난 시각을 모르면 판정 가능한 칸은 둘로 줄어듭니다.",
+              a: "대개는 0개입니다. 네 칸에 지지를 하나씩 다 대입해 보면 넷 중 셋 꼴로 안 걸려요. 걸리더라도 상한이 세 칸입니다 — 태어난 해 칸에는 지살·장성살·화개살 셋 중 하나만 오게 돼 있어서 육해살이 들어갈 자리가 달·날·시각뿐이거든요. 시각을 모르면 판정 가능한 칸은 둘로 줄어듭니다.",
             },
             {
               q: "육해살은 일반 신살의 건강 관련 살과 같은 건가요?",
